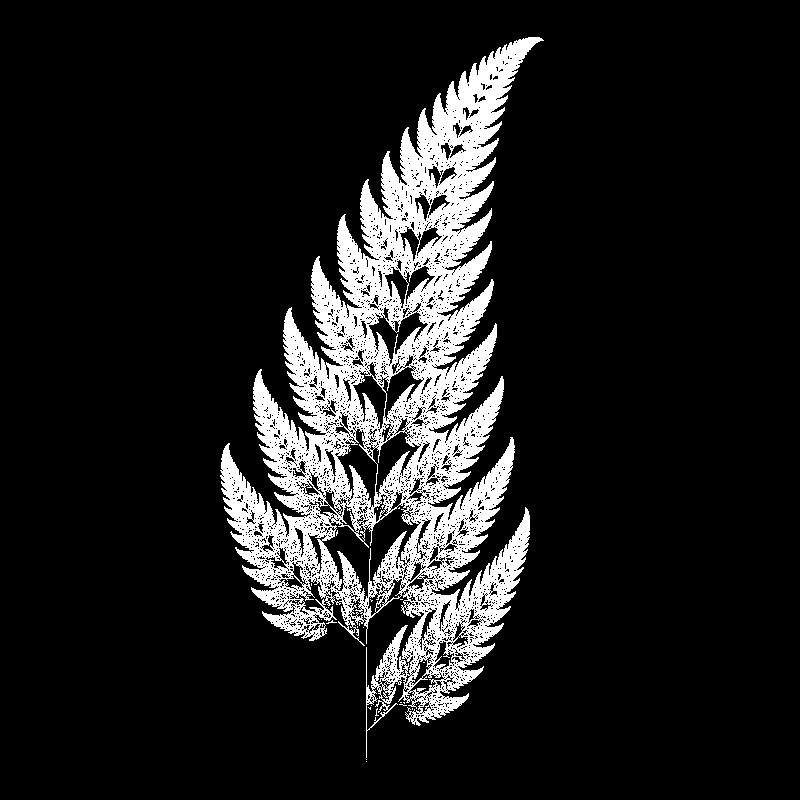
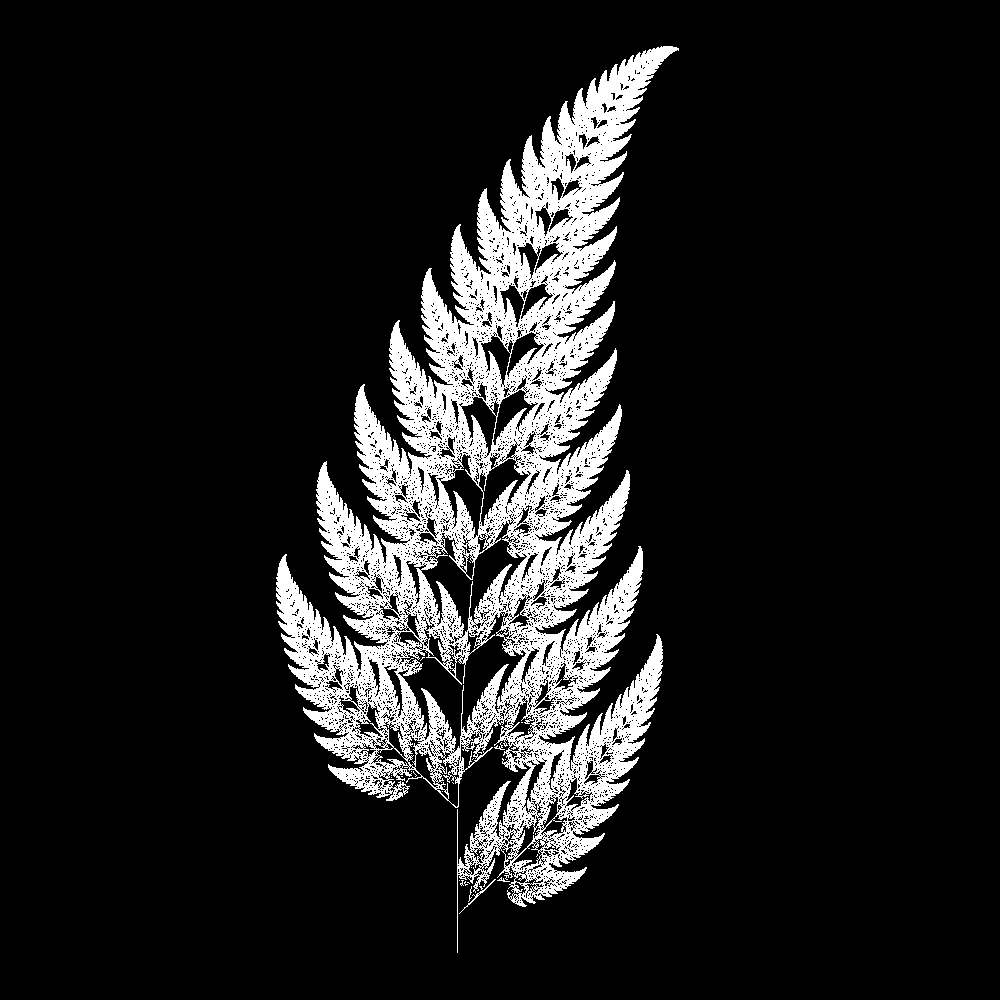
.

Changed region(s): [[0.2812, 0.0625, 0.6562, 0.9375], [0.625, 0.5625, 0.6562, 0.5938]]

diff --git a/simple fractals/jPark.py b/simple fractals/jPark.py
@@ -2,16 +2,25 @@ from graphics import *
 from time import sleep
 from random import random
 
-win = GraphWin("JPark", 800, 800)
-win2 = GraphWin("DO NOT CLOSE", 1, 1)
+from PIL import Image
+from PIL import ImageColor
+from PIL import ImageDraw
+
+qwer_w = 3840
+qwer_h = 2160
+#win = GraphWin("JPark", 800, 800)
+#win2 = GraphWin("DO NOT CLOSE", 1, 1)
+
+image = Image.new("RGB", (qwer_w, qwer_h))
+draw = ImageDraw.Draw(image)
 
 counter = 0
 maxCount = 50
 lineLen = 1
 
-startX = 400
+startX = qwer_w / 2
 #startX = (2 * lineLen) + 5
-startY = 400
+startY = qwer_h / 2
 #startY = 5
 
 stateList = [0] #0 = R, 1 = L
@@ -26,6 +35,11 @@ def draw_line(op, ct, sl, o_dir):
 	global maxCount
 	global lineLen
 	
+	temp = {
+		'r': int(random()*255),
+		'g': int(random()*255),
+		'b': int(random()*255)
+	}
 	p_2 = op
 	
 	idkwhattocallthis = False
@@ -38,7 +52,7 @@ def draw_line(op, ct, sl, o_dir):
 		ct += 1
 	#
 	
-	cur_color = color_rgb(random()*255, random()*255, random()*255)
+	cur_color = color_rgb(temp['r'], temp['g'], temp['b'])
 	
 	# Drawing StateList
 	for i, value in enumerate(sl):
@@ -81,7 +95,9 @@ def draw_line(op, ct, sl, o_dir):
 		#
 		n_line = Line(p_2, p_1)
 		n_line.setFill(cur_color)
-		n_line.draw(win)
+		#n_line.draw(win)
+		
+		draw.line((p_2.getX(), p_2.getY(), p_1.getX(), p_1.getY()), (temp['r'], temp['g'], temp['b']), 1)
 	#
 	
 	n_sl = sl[:]
@@ -97,12 +113,17 @@ def draw_line(op, ct, sl, o_dir):
 	
 	print(n_sl)
 	
+	if ct >= 15:
+		image.save("jPark" + str(ct - 1) + ".png", "PNG")
+	
 	draw_line(p_2, ct, n_sl, o_dir)
 #
 
-n_line.draw(win)
+#n_line.draw(win)
 
 draw_line(p_2, counter, stateList, last_dir)
 
-win2.getMouse()
-win.close()
+image.save("jPark.png", "PNG")
+print("Image Saved")
+#win2.getMouse()
+#win.close()

diff --git a/simple fractals/Spiral Cool Tree.py b/simple fractals/Spiral Cool Tree.py
@@ -1,0 +1,50 @@
+from graphics import *
+from math import *
+from time import sleep
+
+win = GraphWin("Cool Tree", 800, 800)
+win2 = GraphWin("DO NOT CLOSE", 1, 1)
+
+runTimes = 15
+count = 0
+ratio = 3/4
+angle = pi/3
+breakangle = pi/2
+breakratio = 1/3
+
+def draw_line(sp, ep, ol, na, ct):
+	global angle
+	global breakangle
+	global ratio
+	global runTimes
+	
+	print(ct)
+	
+	if ct == runTimes:
+		return
+	else:
+		ct += 1
+	#
+	
+	nl = ol
+	
+	dX = nl * cos(na)
+	dY = nl * sin(na)
+	
+	n_p1 = ep
+	n_p2 = Point(dX + ep.getX(), dY + ep.getY())
+	
+	new_line = Line(n_p1, n_p2)
+	new_line.draw(win)
+	
+	draw_line(n_p1, n_p2, nl * ratio, na - angle, ct)
+	draw_line(n_p1, n_p2, nl * breakratio, na + breakangle, ct)
+#
+
+sp_1 = Point(0, 0)
+sp_2 = Point(400, 800)
+
+draw_line(sp_1, sp_2, 300, -pi/2, count)
+
+win2.getMouse()
+win.close()

diff --git a/simple fractals/fern.py b/simple fractals/fern.py
@@ -2,8 +2,8 @@ from graphics import *
 from PIL import Image
 from random import random
 
-imgx = 8000
-imgy = 8000
+imgx = 1000
+imgy = 1000
 
 #win = GraphWin("Fern", imgx, imgy)
 #win2 = GraphWin("DO NOT CLOSE", 1, 1)

diff --git a/Basic Graphics/This file dont matter.py b/Basic Graphics/This file dont matter.py
@@ -1,0 +1,3 @@
+from graphics import *
+
+print(color_rgb(255,128,0))
